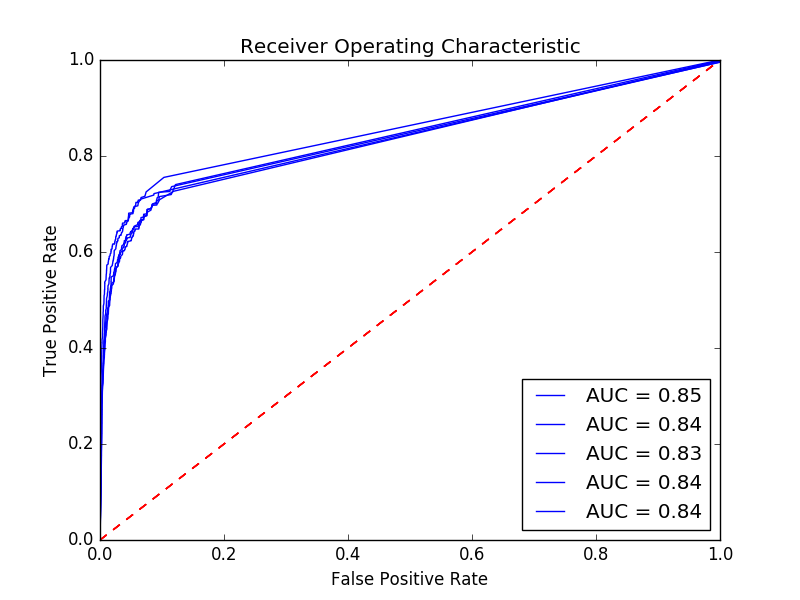
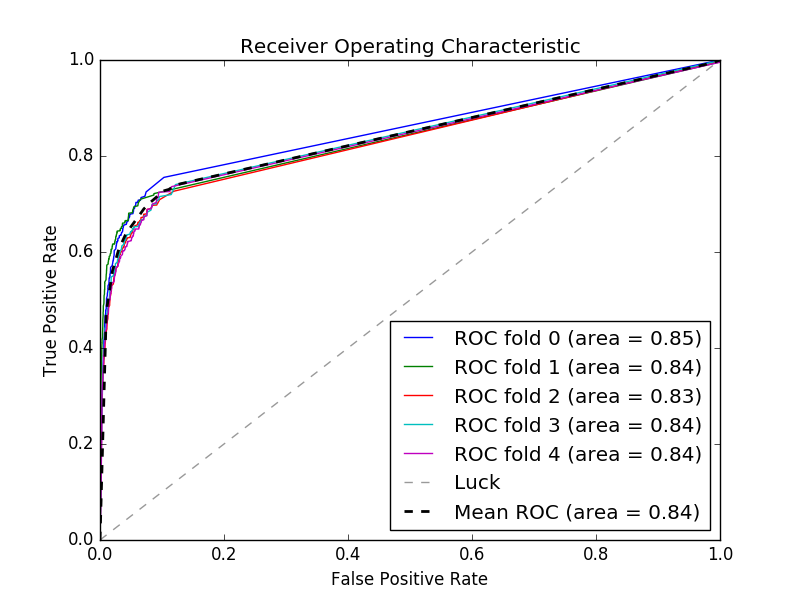
Plot modifications

diff --git a/imdb_based_predictor/imdb_success_predictor.py b/imdb_based_predictor/imdb_success_predictor.py
@@ -9,6 +9,7 @@ import matplotlib
 matplotlib.use('Agg')
 import matplotlib.pyplot as plt
 import pylab
+from scipy import interp
 
 def load_movie_info():
     f = open('movie_info.csv', 'r')
@@ -130,8 +131,10 @@ def create_output_before_release(movie_info):
 
 def test_classifier(clf, X, Y, loc):
     folds = StratifiedKFold(Y, 5)
+    mean_tpr = 0.0
+    mean_fpr = numpy.linspace(0, 1, 100)
     aucs = []
-    for train, test in folds:
+    for i, (train, test) in enumerate(folds):
         # Sizes
         # print X[train].shape, Y[train].shape
         # print X[test].shape, len(prediction)
@@ -141,19 +144,26 @@ def test_classifier(clf, X, Y, loc):
         aucs.append(roc_auc_score(Y[test], prediction[:, 1]))
         
 	false_positive_rate, true_positive_rate, thresholds = roc_curve(Y[test], prediction[:, 1])
+        mean_tpr += interp(mean_fpr, false_positive_rate, true_positive_rate)
+        mean_tpr[0] = 0.0
 	roc_auc = auc(false_positive_rate, true_positive_rate)
-	#plt.ion()
-	plt.title('Receiver Operating Characteristic')
-	plt.plot(false_positive_rate, true_positive_rate, 'b',
-	label='AUC = %0.2f'% roc_auc)
-	plt.legend(loc='lower right')
-	plt.plot([0,1],[0,1],'r--')
-	plt.xlim([0,1])
-	plt.ylim([0,1])
-	plt.ylabel('True Positive Rate')
-	plt.xlabel('False Positive Rate')
-	plt.show()
-	plt.savefig('plots/'+loc+'/'+clf.__class__.__name__+'.png')
+	plt.plot(false_positive_rate, true_positive_rate, lw=1,
+	label='ROC fold %d (area = %0.2f)' % ( i, roc_auc))
+    plt.plot([0, 1], [0, 1], '--', color=(0.6, 0.6, 0.6), label='Luck')
+    mean_tpr /= len(folds)
+    mean_tpr[-1] = 1.0
+    mean_auc = auc(mean_fpr, mean_tpr)
+    plt.plot(mean_fpr, mean_tpr, 'k--',
+         label='Mean ROC (area = %0.2f)' % mean_auc, lw=2)
+
+    plt.title('Receiver Operating Characteristic')
+    plt.xlim([0,1])
+    plt.ylim([0,1])
+    plt.ylabel('True Positive Rate')
+    plt.xlabel('False Positive Rate')
+    plt.legend(loc='lower right')
+    plt.show()
+    plt.savefig('plots/'+loc+'/'+clf.__class__.__name__+'.png')
     plt.clf()
     print clf.__class__.__name__, aucs, numpy.mean(aucs)
 
@@ -174,7 +184,7 @@ def main():
 
     clf = RandomForestClassifier(n_estimators=10, max_depth=10)
     test_classifier(clf, X, Y, 'before_release')
-    
+   
     #After release
     movie_info = load_movie_info()
     print '***After release***'	
